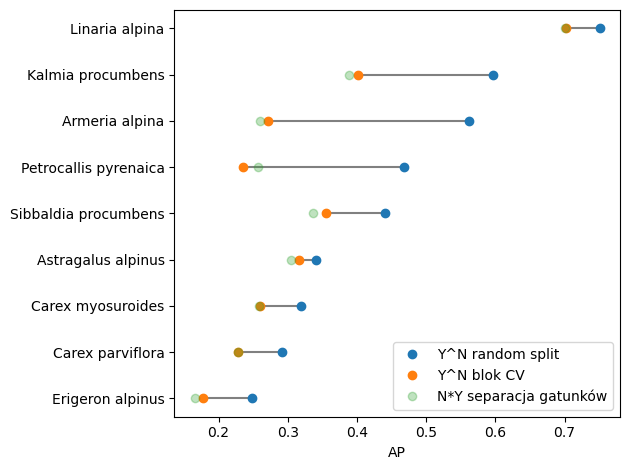
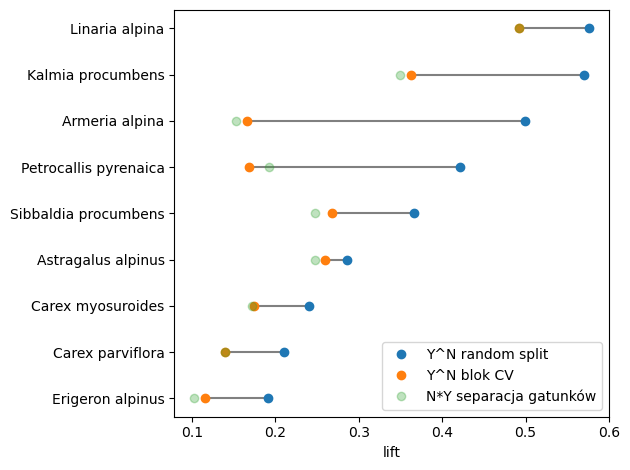
update

diff --git a/README.md b/README.md
@@ -373,7 +373,7 @@ Do trenowania używaliśmy RandomizedSearchCV z sklearn.
 Wytrenowaliśmy trzy modele:
 1. Random Forest, który przewiduje wektor z Y^N. Gdzie N to liczba gatunków.
 2. Model RF podobny do 1, ale taki, w którym obszary z foldów testowych są z innych bloków (większych obszarów) niż obszary z foldów treningowych. Chcieliśmy w ten sposób uniknąć sytuacji, w której klaster 'z jednego końca polany' jest w secie treningowym, a klaster 'z drugiego końca tej samej polany' jest w secie testowym.
-3. Model, który tak naprawdę jest zlepkiem N modeli RF, w którym każdy model przewiduje jedną liczbę. Chcieliśmy porównać, jak to wpłynie na czas treningu oraz na jakość predykcji.
+3. "N*Y" - Model, który tak naprawdę jest zlepkiem N modeli RF, w którym każdy model przewiduje jedną liczbę. Chcieliśmy porównać, jak to wpłynie na czas treningu oraz na jakość predykcji. Znowu groupkfold po blokach.
 
 
 
@@ -396,10 +396,17 @@ Jako najważniejsza cecha wybiła się bio_9, czyli "Mean Temp Driest Quarter". 
 
 Totalnie nieważne okazały się zmienne Slope i Curvature. Co ciekawe "wizualna" ocena na density plot wskazuje na podobieństwo rozkładów losowych punktów i punktów z obserwacji. Więc, być może to już samo w sobie było przesłanką do odrzucenia ich z uczenia. Z drugiej strony Slope i Curvature używane do uczenia to tak naprawdę średnia dla klastra, więc może, dla klastrów gdzie n>1, zatarła się ważna informacja, w co raczej wątpimy.
 
-### Wyniki
+### Wyniki i wnioski
 
+Suche wyniki wyprintowane w outputach notebooku 02_Learning.ipynb.
+![dumbbell](plots//dumbbell.png)
 
+Pierwsze co widać, to to, że pierwszy model dla większości gatunków wystrzelił wyższy wynik.
+Drugi i trzeci model mają w miarę podobne wyniki, dlatego będziemy mówić tylko o pierwszym i drugim. Ale najpierw jeszcze zauważymy, że jest to dobra informacja, ponieważ oba modele Y^N trenowały się dużo krócej niż N*Y. Jest to ciekawy wynik do zapamiętania, jeżeli chodzi o optymalizację kodu wynik/czas. Choć pewnie nie będzie to prawda dla każdego zestawu danych. Tutaj się sprawdza.
 
+Druga sprawa, która jest w naszej ocenie najciekawszym wynikiem to to, że lift spada znacząco kiedy pogrupujemy foldy tak, aby nie testować klastrach, które są blisko klastrów treningowych. Czyli random-split może nam przekłamać model. Mało przekłamuje dla Linaria alpina, a 
+
+Ciężko nam oceniać nasze wyniki jako wyniki z modelowania niszy ekologicznej, bo nie znamy się na tym i brakowało nam porównania ze state-of-art modelami.
 
 # Uwagi:
 - Deduplikacja rekordów powinna nastąpić przed feature selection.
